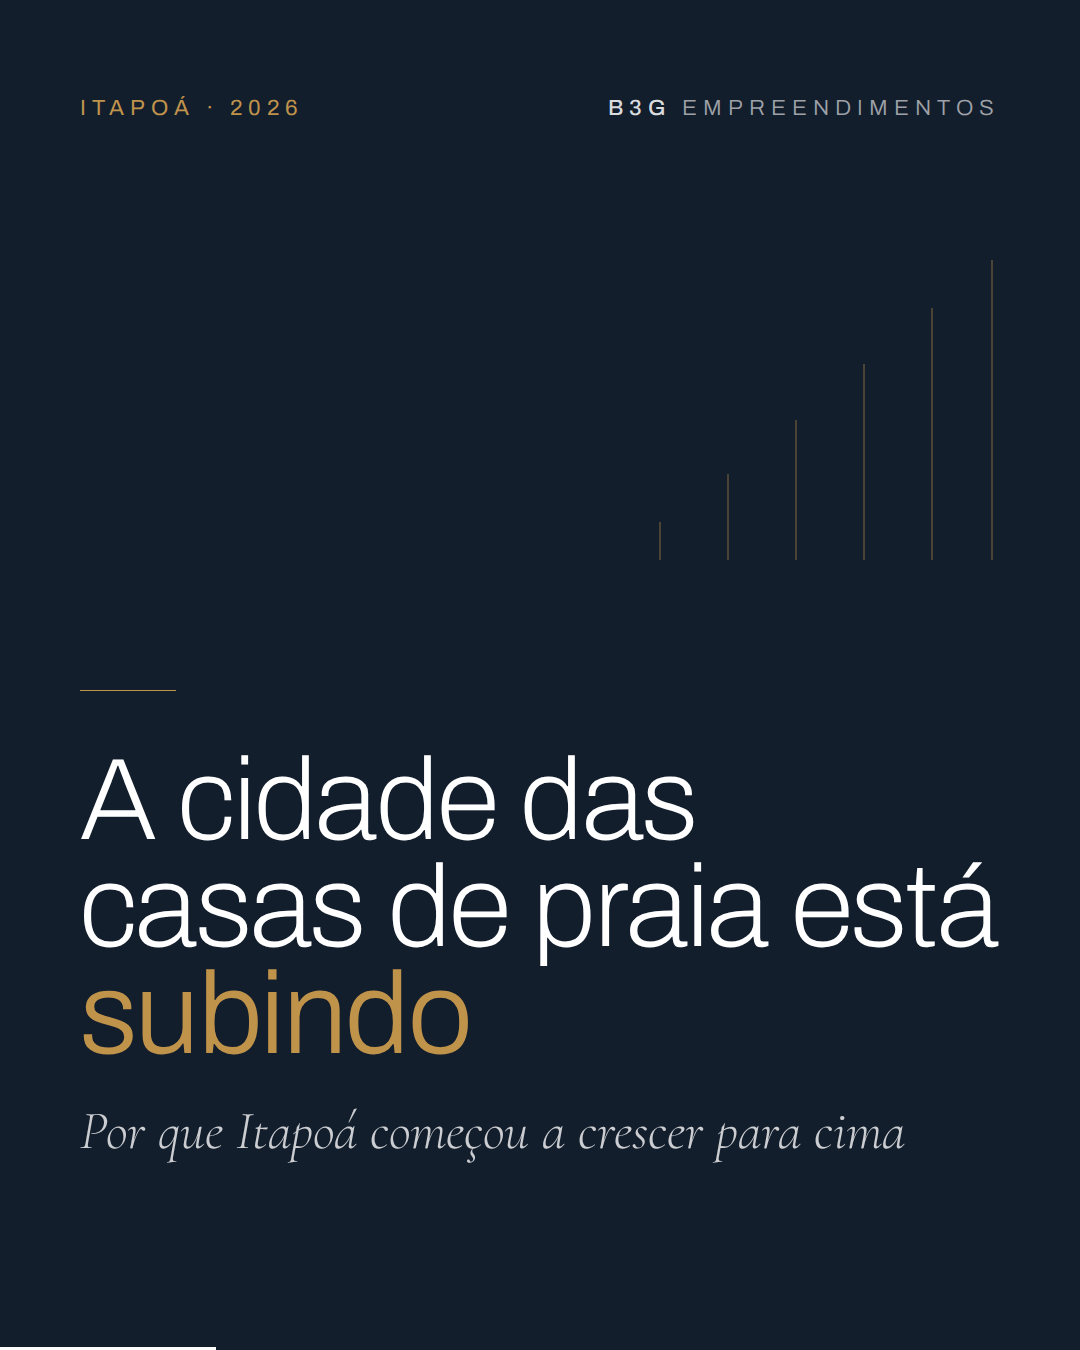
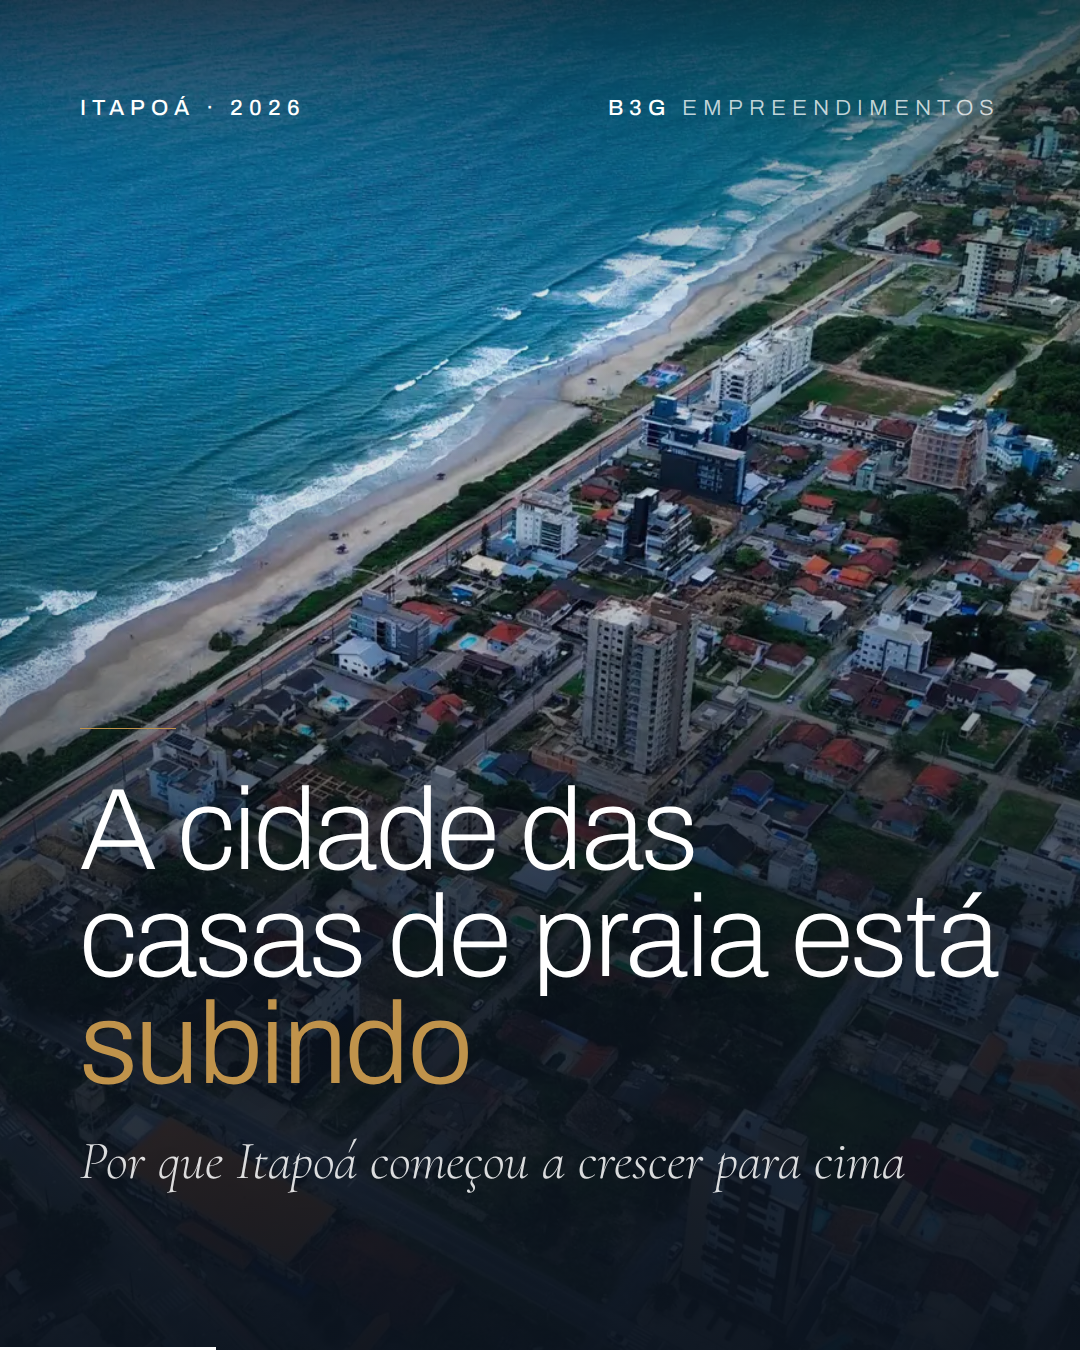
Use B3G drone photos of Itapoá as cover background (two options)
Claude-Session: https://claude.ai/code/session_01MkJUPckMk2A57CZdQx2khj

diff --git a/b3g-carrosseis/conteudo/carrosseis/itapoa-cidade-de-predios/instagram/slide-01.html b/b3g-carrosseis/conteudo/carrosseis/itapoa-cidade-de-predios/instagram/slide-01.html
@@ -5,29 +5,22 @@
 *{margin:0;padding:0;box-sizing:border-box}
 html,body{width:1080px;height:1350px}
 body{background:#131E2D;color:#fff;font-family:Archivo,sans-serif;position:relative;overflow:hidden}
-.topo{position:absolute;top:96px;left:80px;right:80px;display:flex;justify-content:space-between;align-items:baseline}
-.tag{font-size:22px;font-weight:400;letter-spacing:6px;text-transform:uppercase;color:#C0934B}
-.marca{font-size:22px;font-weight:500;letter-spacing:6px;text-transform:uppercase;color:rgba(255,255,255,.85)}
-.marca span{font-weight:300;color:rgba(255,255,255,.6)}
-.skyline{position:absolute;right:80px;top:260px;width:360px;height:300px}
-.conteudo{position:absolute;left:80px;right:80px;bottom:190px}
-h1{font-weight:200;font-size:116px;line-height:.92;letter-spacing:-.015em}
+.capa-bg{position:absolute;inset:0;width:100%;height:100%;object-fit:cover;object-position:62% center}
+.capa-overlay{position:absolute;inset:0;background:linear-gradient(180deg,rgba(12,20,31,.75) 0%,rgba(12,20,31,.35) 12%,rgba(12,20,31,.05) 24%,rgba(12,20,31,.15) 45%,rgba(12,20,31,.78) 68%,rgba(12,20,31,.96) 100%)}
+.topo{position:absolute;top:96px;left:80px;right:80px;display:flex;justify-content:space-between;align-items:baseline;z-index:5}
+.tag{font-size:22px;font-weight:500;letter-spacing:6px;text-transform:uppercase;color:#fff}
+.marca{font-size:22px;font-weight:500;letter-spacing:6px;text-transform:uppercase;color:#fff}
+.marca span{font-weight:300;color:rgba(255,255,255,.75)}
+.conteudo{position:absolute;left:80px;right:80px;bottom:160px;z-index:5}
+h1{font-weight:200;font-size:116px;line-height:.92;letter-spacing:-.015em;text-shadow:0 2px 30px rgba(0,0,0,.25)}
 h1 em{font-style:normal;color:#C0934B;font-weight:300}
-.sub{margin-top:36px;font-family:"Cormorant Garamond",serif;font-style:italic;font-weight:300;font-size:54px;line-height:1.05;color:rgba(255,255,255,.78)}
-.regua{width:96px;height:1px;background:#C0934B;margin-bottom:56px}
-.progresso{position:absolute;left:0;bottom:0;height:3px;width:20%;background:#fff}
+.sub{margin-top:36px;font-family:"Cormorant Garamond",serif;font-style:italic;font-weight:300;font-size:54px;line-height:1.05;color:rgba(255,255,255,.85)}
+.regua{width:96px;height:1px;background:#C0934B;margin-bottom:48px}
+.progresso{position:absolute;left:0;bottom:0;height:3px;width:20%;background:#fff;z-index:5}
 </style></head><body>
+<img class="capa-bg" src="../imagens/orla-predios.webp" alt="">
+<div class="capa-overlay"></div>
 <div class="topo"><span class="tag">Itapoá · 2026</span><span class="marca">B3G <span>Empreendimentos</span></span></div>
-<svg class="skyline" viewBox="0 0 360 300" aria-hidden="true">
-  <g stroke="#C0934B" stroke-width="1.2" fill="none" opacity=".55">
-    <line x1="20" y1="300" x2="20" y2="262"/>
-    <line x1="88" y1="300" x2="88" y2="214"/>
-    <line x1="156" y1="300" x2="156" y2="160"/>
-    <line x1="224" y1="300" x2="224" y2="104"/>
-    <line x1="292" y1="300" x2="292" y2="48"/>
-    <line x1="352" y1="300" x2="352" y2="0"/>
-  </g>
-</svg>
 <div class="conteudo">
   <div class="regua"></div>
   <h1>A cidade das casas de praia está <em>subindo</em></h1>

diff --git a/b3g-carrosseis/conteudo/carrosseis/itapoa-cidade-de-predios/instagram/slide-01-b.html b/b3g-carrosseis/conteudo/carrosseis/itapoa-cidade-de-predios/instagram/slide-01-b.html
@@ -1,0 +1,30 @@
+<!DOCTYPE html>
+<html lang="pt-BR"><head><meta charset="UTF-8">
+<link rel="stylesheet" href="../../../../marca/fonts/fonts.css">
+<style>
+*{margin:0;padding:0;box-sizing:border-box}
+html,body{width:1080px;height:1350px}
+body{background:#131E2D;color:#fff;font-family:Archivo,sans-serif;position:relative;overflow:hidden}
+.capa-bg{position:absolute;inset:0;width:100%;height:100%;object-fit:cover;object-position:40% center}
+.capa-overlay{position:absolute;inset:0;background:linear-gradient(180deg,rgba(12,20,31,.75) 0%,rgba(12,20,31,.35) 12%,rgba(12,20,31,.05) 24%,rgba(12,20,31,.15) 45%,rgba(12,20,31,.78) 68%,rgba(12,20,31,.96) 100%)}
+.topo{position:absolute;top:96px;left:80px;right:80px;display:flex;justify-content:space-between;align-items:baseline;z-index:5}
+.tag{font-size:22px;font-weight:500;letter-spacing:6px;text-transform:uppercase;color:#fff}
+.marca{font-size:22px;font-weight:500;letter-spacing:6px;text-transform:uppercase;color:#fff}
+.marca span{font-weight:300;color:rgba(255,255,255,.75)}
+.conteudo{position:absolute;left:80px;right:80px;bottom:160px;z-index:5}
+h1{font-weight:200;font-size:116px;line-height:.92;letter-spacing:-.015em;text-shadow:0 2px 30px rgba(0,0,0,.25)}
+h1 em{font-style:normal;color:#C0934B;font-weight:300}
+.sub{margin-top:36px;font-family:"Cormorant Garamond",serif;font-style:italic;font-weight:300;font-size:54px;line-height:1.05;color:rgba(255,255,255,.85)}
+.regua{width:96px;height:1px;background:#C0934B;margin-bottom:48px}
+.progresso{position:absolute;left:0;bottom:0;height:3px;width:20%;background:#fff;z-index:5}
+</style></head><body>
+<img class="capa-bg" src="../imagens/por-do-sol.webp" alt="">
+<div class="capa-overlay"></div>
+<div class="topo"><span class="tag">Itapoá · 2026</span><span class="marca">B3G <span>Empreendimentos</span></span></div>
+<div class="conteudo">
+  <div class="regua"></div>
+  <h1>A cidade das casas de praia está <em>subindo</em></h1>
+  <p class="sub">Por que Itapoá começou a crescer para cima</p>
+</div>
+<div class="progresso"></div>
+</body></html>
